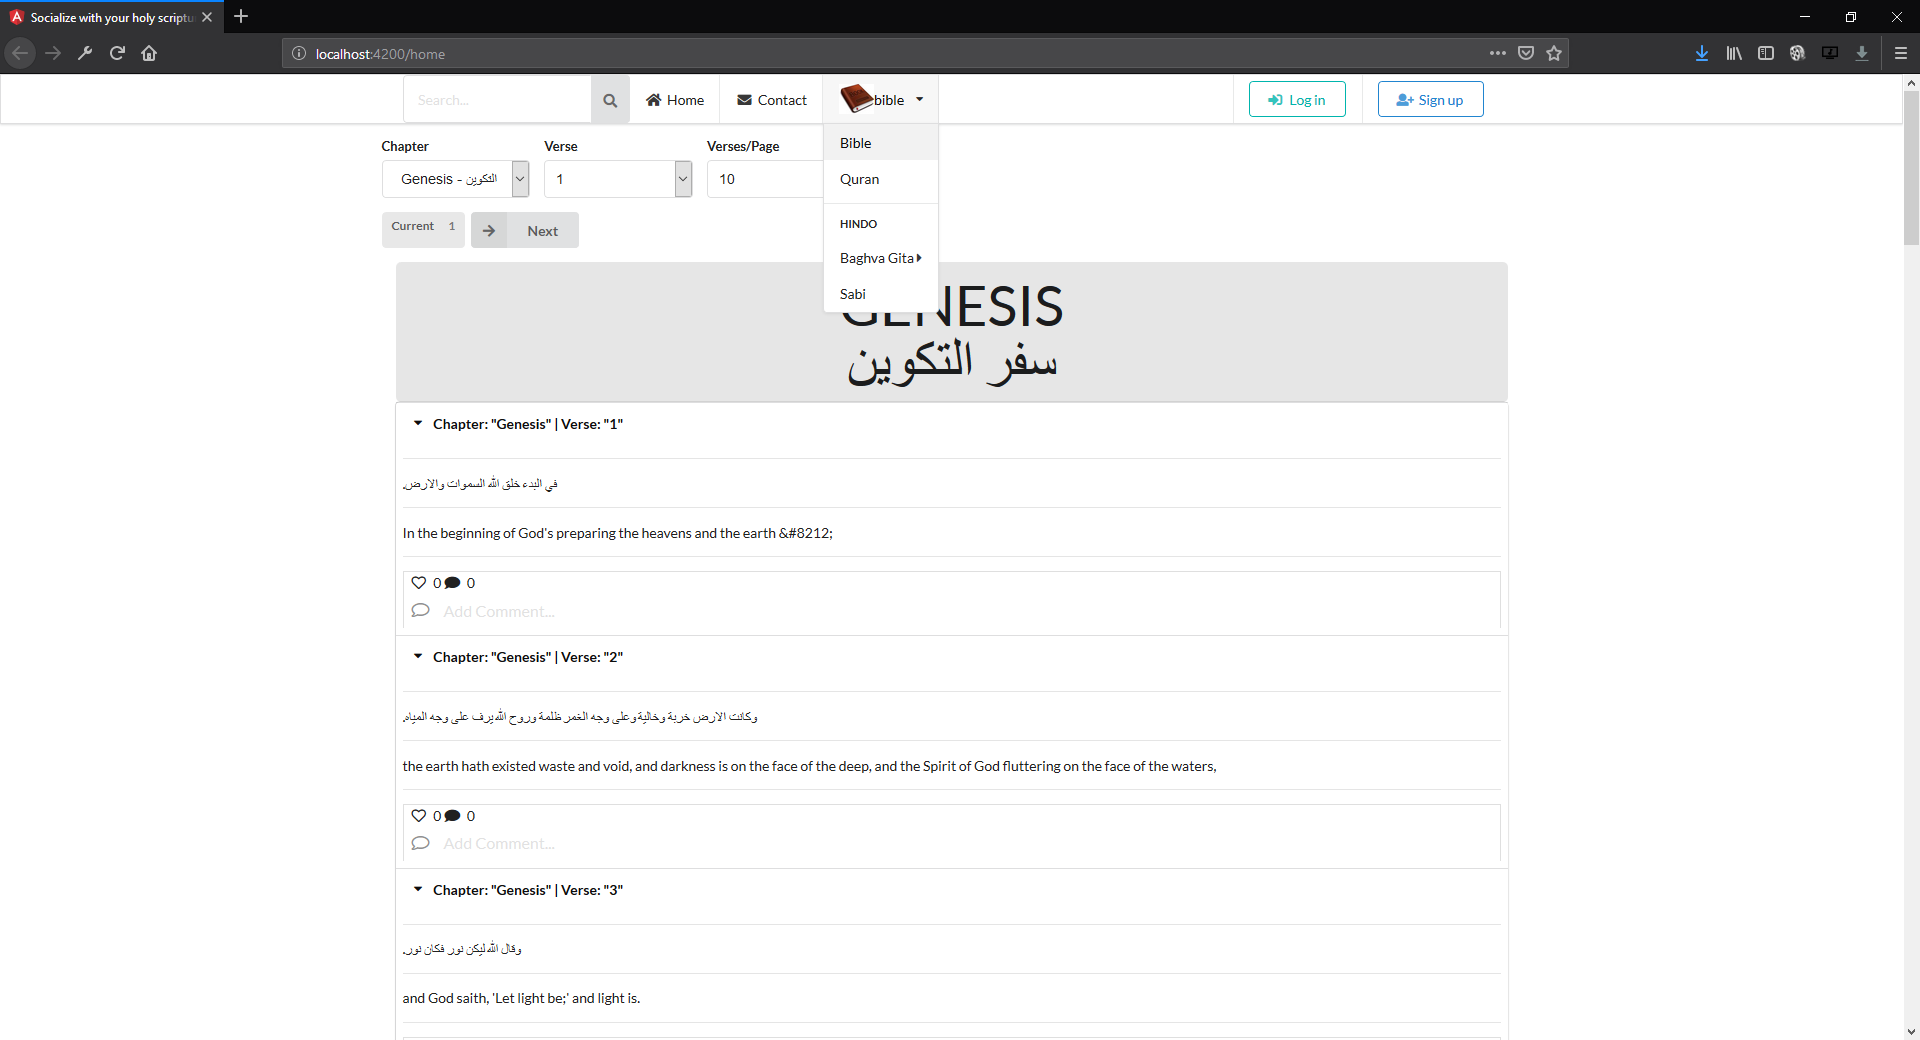
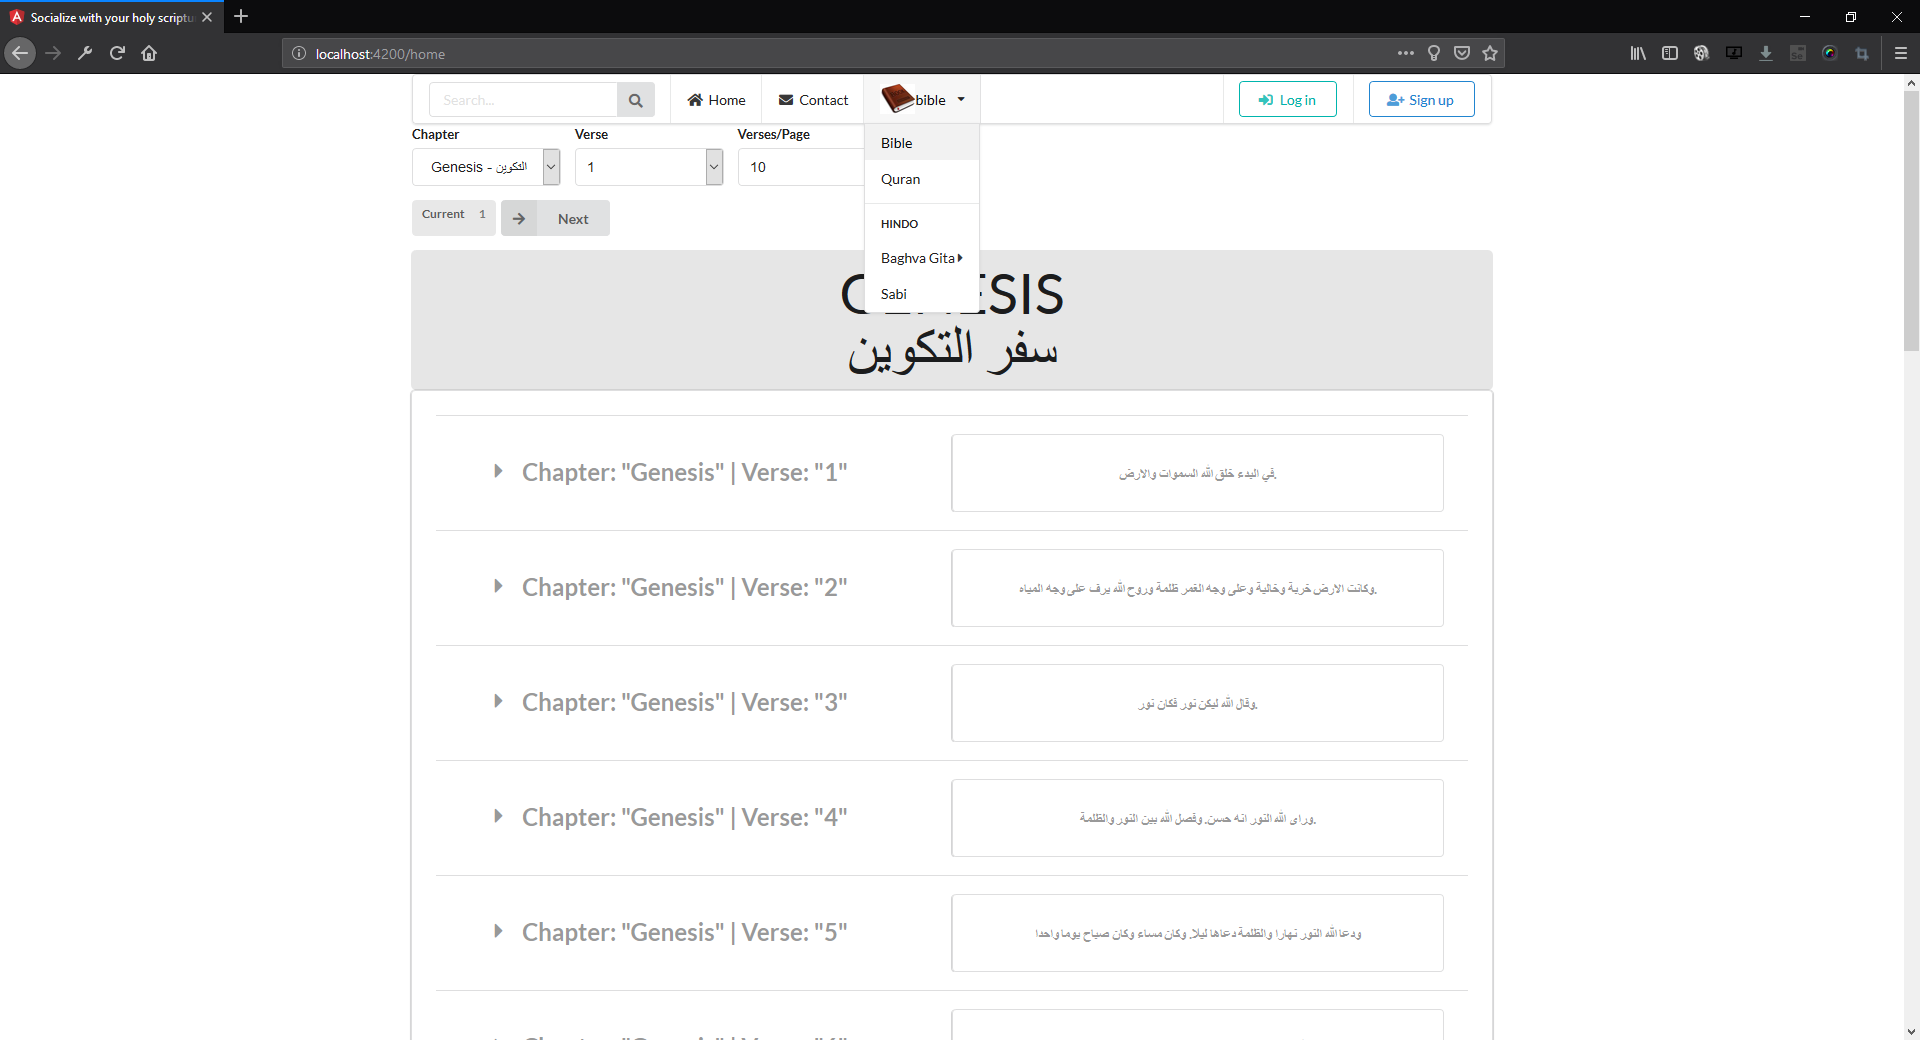
apply grid to verse

diff --git a/src/app/verse/verse.component.html b/src/app/verse/verse.component.html
@@ -1,8 +1,14 @@
 <div class="{{titleCollapse}}">
+<div class="ui internally celled grid">
+<div class="row">
+<span class="eight wide column">
   <i class="dropdown icon" (click)="toggleExpand()"></i>
   <strong>Chapter:</strong> "{{chMeta._source.en_name}}" |
   <strong>Verse:</strong> "{{ verse._source.verse }}"
-  <span class="ui segment center aligned" *ngIf="!expand">{{verse._source.ar_simple}}</span>
+  </span>
+  <span class="ui segment center aligned eight wide column" *ngIf="!expand">{{verse._source.ar_simple}}</span>
+  </div>
+</div>
 </div>
 <div class="ui  massive segments {{contentCollapse}}">
 <div class="ui secondary segment right aligned">
